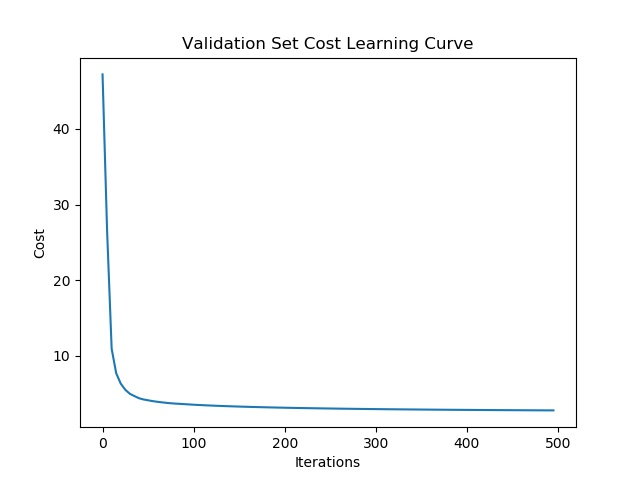
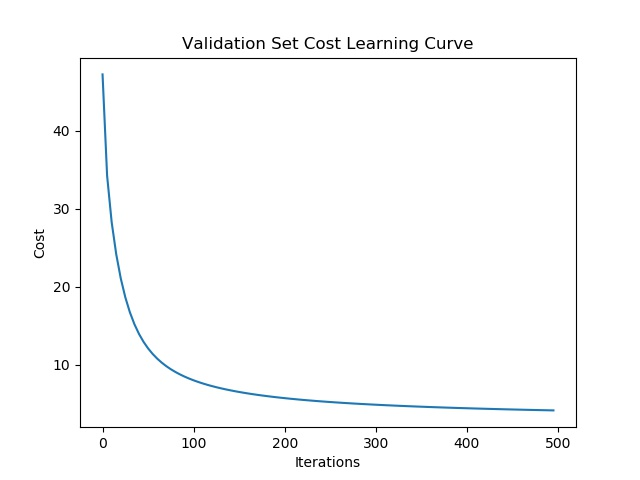
Changed digits.py: - Uncommented parts 1 through 3, except the part of part 2 that plots an image. That can remain commented
Pushed the "updated" plots for parts 4 and 5

diff --git a/Code/digits.py b/Code/digits.py
@@ -18,81 +18,81 @@ import os
 from scipy.io import loadmat
 
 
-# ## Part 1: Describing the dataset
-# # Load the MNIST digit data
-# M = loadmat("../Data/mnist_all.mat")
-#
-# def part1SaveImages():
-#     '''
-#     part1SaveImages saves a sample of images from the MNIST dataset into the
-#     images folder for the report.
-#     '''
-#
-#     for k in range(10):
-#         for i in range(10): #Display the 150-th "5" digit from the training set
-#             imshow(M["train" + str(k)][i].reshape((28,28)), cmap=cm.gray)
-#             imsave("../Report/images/number" + str(k) + "_"+ str(i) + ".jpg",
-#                    M["train" + str(k)][i].reshape((28,28)),
-#                    cmap=cm.gray)
-#
-# train = zeros(10)
-# test = zeros(10)
-# for i in range(10):
-#     train[i] = len(M["train" + str(i)])
-#     test[i] = len(M["test" + str(i)])
-#
-# # Normalize images (map to [0, 1])
-# for k in M.keys():
-#     if("train" in k or "test" in k):
-#         M[k] = np.true_divide(M[k], 255.0)
-#
-# ## Part 2: Computing a simple network
-# import part2 as p2
-#
-# def testPart2():
-#     '''
-#     testPart2 uses a randomly-initialized weight matrix to make a prediction
-#     about an image from the MNIST dataset (which happens to be 5). The image
-#     is plotted and the output of the SimpleNetwork computation from part 2 is
-#     printed.
-#     '''
-#
-#     np.random.seed(3)
-#     W = np.random.rand(28*28,10) # Randomly initialize some weight matrix
-#     X = M["train5"][148:149].T # Image of "5"
-#     plt.imshow(X.reshape((28,28)))
-#     plt.show()
-#     y = p2.SimpleNetwork(W, X)
-#     print("y: ", y) # Should be a 10x1 vector with random values
-#     print("sum(y): ", sum(y)) # Should be 1
-# testPart2()
-#
-#
-# ##  Part 3: Negative log loss of gradient
-# import part3 as p3
-#
-# def testPart3():
-#     '''
-#     part3Test computes the vectorized gradient as well as a finite difference
-#     approximation for the gradient of the negative log loss for 10 different
-#     values of h (the differential quantity). The differences between all the
-#     gradient matrix entries for the two methods are summed and printed for each
-#     h-value.
-#     '''
-#
-#     X = [[1, 2, 3, 4], [1, 2, 3, 4], [1, 2, 3, 4], [1, 2, 3 ,4],[1, 2, 3, 4]]
-#     X = np.array(X)
-#     W = [[1, 0, 1.2, 3], [1, 2, 0.2, 1.2], [1, 8, 1, 4], [1, -2, 3, 1], [1, 0, 3, 1]]
-#     W = np.array(W)
-#     Y = [[1, 0, 0, 0], [0, 1, 0, 0], [0, 0, 1, 0], [0, 0, 0, 1]]
-#     Y = np.array(Y)
-#     G1 = p3.negLogLossGrad(X, Y, W)
-#     h = 1.0
-#     for i in range(10):
-#         G2 = p3.negLogLossGrad_FiniteDifference(X, Y, W, h)
-#         print "Total error: ", sum(abs(G1 - G2)), "h: ", h
-#         h /= 10
-# testPart3()
+## Part 1: Describing the dataset
+# Load the MNIST digit data
+M = loadmat("../Data/mnist_all.mat")
+
+def part1SaveImages():
+    '''
+    part1SaveImages saves a sample of images from the MNIST dataset into the
+    images folder for the report.
+    '''
+
+    for k in range(10):
+        for i in range(10): #Display the 150-th "5" digit from the training set
+            imshow(M["train" + str(k)][i].reshape((28,28)), cmap=cm.gray)
+            imsave("../Report/images/number" + str(k) + "_"+ str(i) + ".jpg",
+                   M["train" + str(k)][i].reshape((28,28)),
+                   cmap=cm.gray)
+
+train = zeros(10)
+test = zeros(10)
+for i in range(10):
+    train[i] = len(M["train" + str(i)])
+    test[i] = len(M["test" + str(i)])
+
+# Normalize images (map to [0, 1])
+for k in M.keys():
+    if("train" in k or "test" in k):
+        M[k] = np.true_divide(M[k], 255.0)
+
+## Part 2: Computing a simple network
+import part2 as p2
+
+def testPart2():
+    '''
+    testPart2 uses a randomly-initialized weight matrix to make a prediction
+    about an image from the MNIST dataset (which happens to be 5). The image
+    is plotted and the output of the SimpleNetwork computation from part 2 is
+    printed.
+    '''
+
+    np.random.seed(3)
+    W = np.random.rand(28*28,10) # Randomly initialize some weight matrix
+    X = M["train5"][148:149].T # Image of "5"
+    #plt.imshow(X.reshape((28,28)))
+    #plt.show()
+    y = p2.SimpleNetwork(W, X)
+    print("y: ", y) # Should be a 10x1 vector with random values
+    print("sum(y): ", sum(y)) # Should be 1
+testPart2()
+
+
+##  Part 3: Negative log loss of gradient
+import part3 as p3
+
+def testPart3():
+    '''
+    part3Test computes the vectorized gradient as well as a finite difference
+    approximation for the gradient of the negative log loss for 10 different
+    values of h (the differential quantity). The differences between all the
+    gradient matrix entries for the two methods are summed and printed for each
+    h-value.
+    '''
+
+    X = [[1, 2, 3, 4], [1, 2, 3, 4], [1, 2, 3, 4], [1, 2, 3 ,4],[1, 2, 3, 4]]
+    X = np.array(X)
+    W = [[1, 0, 1.2, 3], [1, 2, 0.2, 1.2], [1, 8, 1, 4], [1, -2, 3, 1], [1, 0, 3, 1]]
+    W = np.array(W)
+    Y = [[1, 0, 0, 0], [0, 1, 0, 0], [0, 0, 1, 0], [0, 0, 0, 1]]
+    Y = np.array(Y)
+    G1 = p3.negLogLossGrad(X, Y, W)
+    h = 1.0
+    for i in range(10):
+        G2 = p3.negLogLossGrad_FiniteDifference(X, Y, W, h)
+        print "Total error: ", sum(abs(G1 - G2)), "h: ", h
+        h /= 10
+testPart3()
 
 ##  Part 4 and 5: Training using vanilla vs. momentum gradient descent
 import part4 as p4
